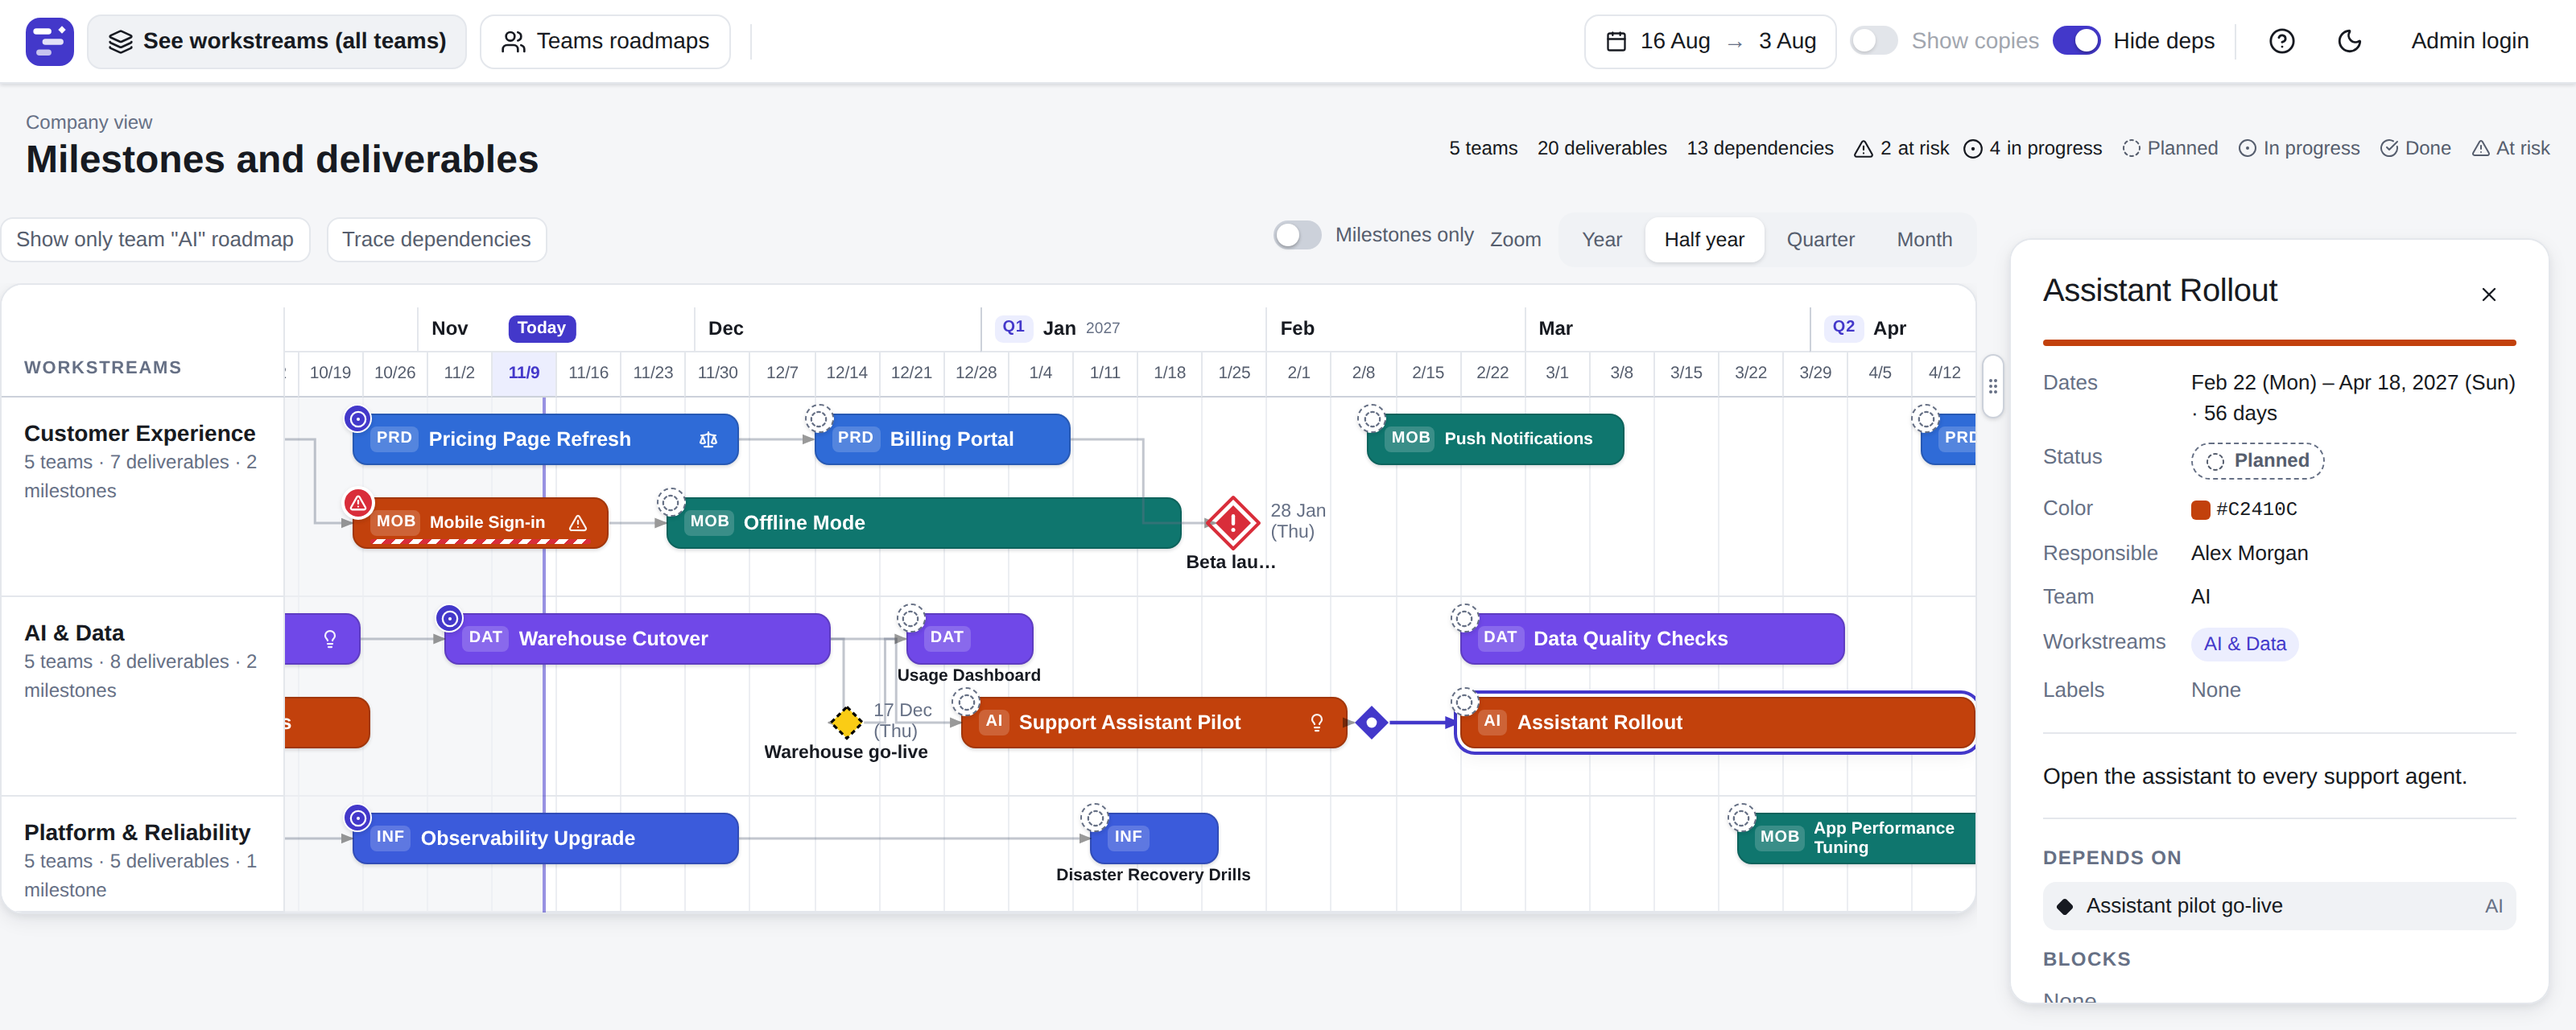
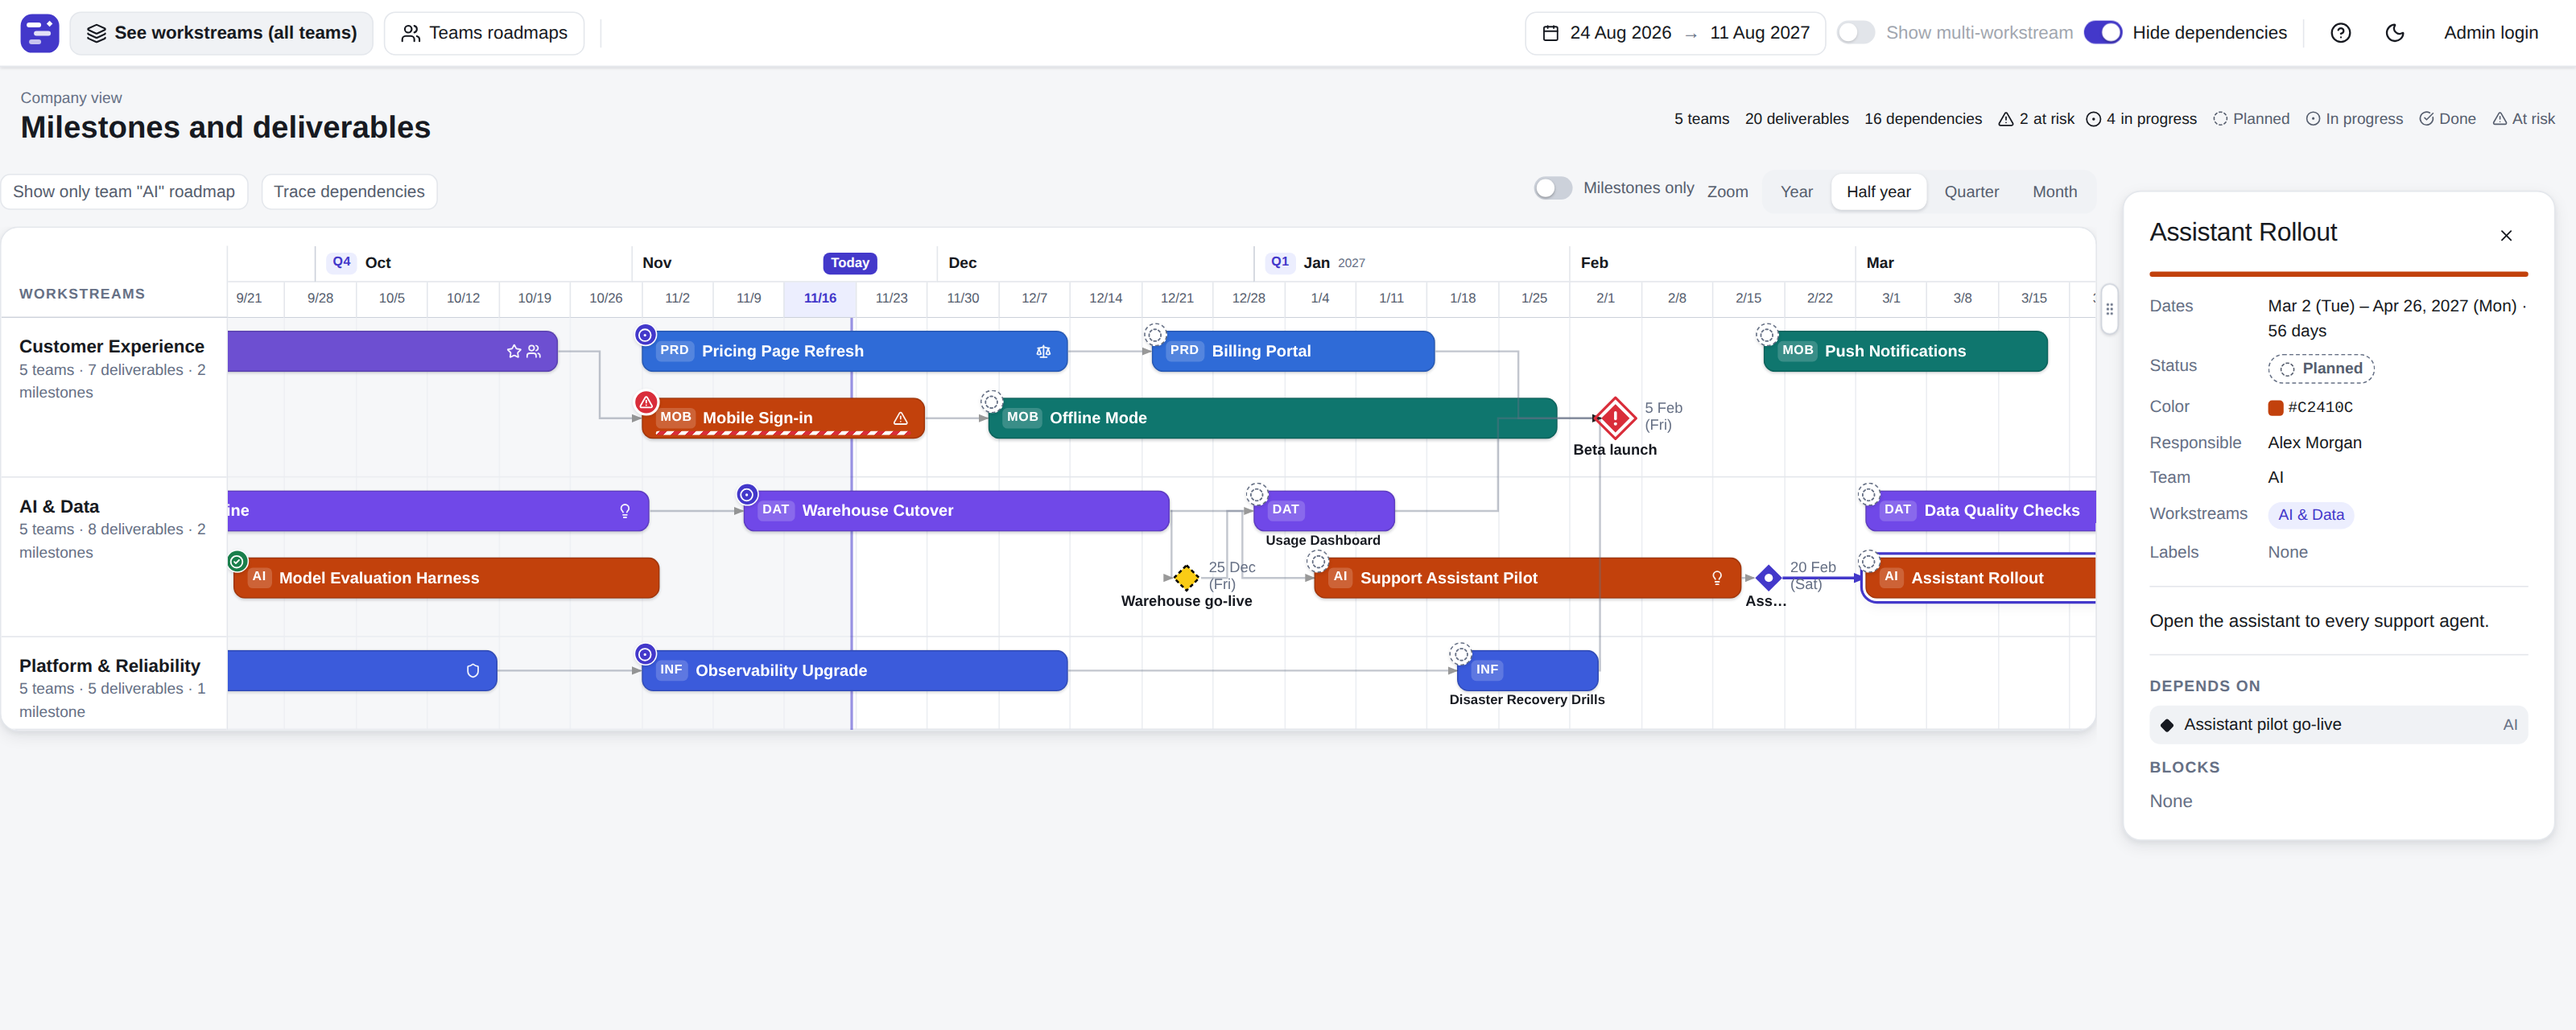
Overlens 1.2.4

diff --git a/internal/demo/demo_test.go b/internal/demo/demo_test.go
@@ -485,8 +485,8 @@ func Test_REQ_DEMO_016_REQ_DEMO_017_development_company_file_loads(t *testing.T)
 			ws[strings.ToLower(w.Name)] = true
 		}
 	}
-	if res.Teams != 5 || len(ws) != 3 || res.Counts.Deliverables != 30 || res.Counts.Milestones != 6 || res.Counts.Dependencies != 17 {
-		t.Errorf("teams %d, workstream names %d, deliverables %d, milestones %d, dependencies %d (want 5, 3, 30, 6, 17)",
+	if res.Teams != 5 || len(ws) != 3 || res.Counts.Deliverables != 30 || res.Counts.Milestones != 6 || res.Counts.Dependencies != 20 {
+		t.Errorf("teams %d, workstream names %d, deliverables %d, milestones %d, dependencies %d (want 5, 3, 30, 6, 20)",
 			res.Teams, len(ws), res.Counts.Deliverables, res.Counts.Milestones, res.Counts.Dependencies)
 	}
 }

diff --git a/README.md b/README.md
@@ -1,9 +1,8 @@
 # Overlens
 
-**One page that shows who is accountable for which deliverable, by when, and who is waiting on whom.**
+Overlens is for teams and leaders who share large, complex goals that none of them can reach alone, where the work has to be sequenced and one team's progress depends on another's. It's free and open source (MIT).
 
-Overlens helps teams and leaders working together on complex projects stay transparent and accountable for their part of the work.
-Every team's deliverables, milestones and dependencies sit on one timeline, each with a date and one accountable owner. Overlens makes it clear what needs to be done in order to reach milestones.
+Every team's deliverables, milestones and dependencies sit on one timeline, each with a date and one accountable owner, so everyone can see what has to happen, by when, and in what order, to reach each milestone, and where things stand right now.
 
 What Overlens is not:
 - Not an aggregation layer on top of Jira or other tracking systems.
@@ -12,78 +11,49 @@ What Overlens is not:
 
 ## See it in three steps
 
-**1. Start with the milestones.** The dates your company or department commits to, and nothing else.
+**1. Start with the milestones.** The dates and goals your company or department commits to, and nothing else.
 
 ![Milestones only: the dates that matter, one row per workstream](docs/images/milestones-only.png)
 
-**2. Open one milestone.** Click a milestone to see only what leads to it: the deliverables it waits on, who is
-accountable for each, and which links are tight or at risk. Everything unrelated is hidden. If a team that should be
-part of it is missing from that picture, you see it now, not at the deadline.
+**2. Open one milestone.** Click a milestone to see only what leads to it: the deliverables it waits on, which team owns it, who is
+accountable for each, and which links are tight or at risk. If a team that should be part of it is missing from that picture, or a deliverable has no accountable person, you see it now, not at the deadline.
 
 ![Beta launch: its prerequisites, their owners and status](docs/images/milestones-view.png)
 
-**3. Then the whole picture.** You can see every team's deliverables, milestones and dependencies on one timeline. Select any item
-to see its dates, owner and what it depends on.
+**3. Then the whole picture.** All teams together: the shared bottlenecks, deliverables that several milestones depend on, and how much each team is carrying at the same time. When a bottleneck slips, you know every goal that slips with it.
 
 ![The company view: every team's deliverables, milestones and dependencies on one timeline](docs/images/company-view.png)
 
-## Who it's for
+## Why Overlens
 
-Leaders and teams who need to see progress toward company goals, and want everyone to see who is accountable for each step.
-
-Ticketing systems are built for tasks, not high-level objectives. When progress is reported and aggregated through hundreds of tasks and epics,
-ownership dissolves into detail and nobody owns the whole outcome. When something slips, teams blame each other for not
-being proactive or not sharing information about dependencies. Only 7% of executives say they can quickly see how their teams' work supports
+Ticketing systems are built for tasks. When progress is reported and aggregated through hundreds of tasks and epics,
+ownership dissolves into detail and it's difficult to understand who owns the whole outcome. Only 7% of executives say they can quickly see how their teams' work supports
 company goals ([Atlassian, 2025](https://www.atlassian.com/blog/focus/how-goals-support-strategic-priorities)).
 
-Portfolio suites such as [Jira Align](https://www.atlassian.com/software/jira/align) may address this, but they are large
-products tied to one vendor's ecosystem. Overlens stays at the level that matters to leadership: one deliverable, one
-accountable person, one date, visible to the whole organization without an account. Every team is free to organize their
-work as they see fit, but their commitments to each other and high-level goals come together in Overlens.
+Portfolio suites such as [Jira Align](https://www.atlassian.com/software/jira/align) are built for this, but they are large
+products tied to one vendor's ecosystem. Overlens stays above the teams' own tools. Each team organizes its work as it sees fit,
+and what comes together in Overlens is only what they commit to each other and to the company goals.
 
-Overlens is a tool, not a planning process. People still decide what the goals are, assess what is technically
-possible, and agree on who delivers what by when. Overlens doesn't do that work for them: it makes the result of
-those conversations visible, keeps it current, and shows the moment it stops adding up.
+Overlens is a tool, not a planning process. People still set the goals and agree on who delivers what by when;
+Overlens makes the result visible, keeps it current, and shows the moment it stops adding up.
 
-## What you get
+## Ask your AI assistant
 
-- **The whole portfolio on one page**, with status and risk at a glance.
-- **Dependencies you can see**: who waits on whom, and everything a deliverable depends on.
-
-  ![Assistant Rollout traced back through everything it depends on](docs/images/trace-dependencies.png)
-
-- **Gaps you can spot early**: when a big milestone has nothing leading to it from a team that will clearly be needed,
-  or a deliverable has no accountable person, it is visible in Overlens while there is still time to act.
-- **Status updates and meetings focused on the outcomes**: what leads to each one, who owns each part, what is late or at risk.
-- **Ask your AI assistant**: connect Claude or any MCP assistant and ask in plain language, for example "What is late or
-  at risk?" or "What is Beta launch waiting on?". The MCP is read only.
-- **Free and open source** (MIT).
-
-## Where it runs
-
-Overlens runs on your company's own infrastructure, so you don't depend on a SaaS vendor. It is one program and needs
-nothing but an operating system: no database to set up, no internet. It runs on any Linux or Windows server (VM, EC2,
-physical) and on a Mac, and if your company already runs containers, Docker works too.
-
-You can also try it on your own computer first, in five minutes. Read the [Installation](#installation) chapter below.
+Connect Claude or any MCP assistant and ask in plain language, for example "What is late or at risk?" or "What is
+Beta launch waiting on?". The assistant can only read; it never changes the roadmap.
 
 ## Installation
 
-**On your laptop.** Download the build for Mac, Windows or Linux from
-[Releases](https://github.com/andrejad/overlens/releases), unpack it and start `overlens` (on Windows, double-click
-`overlens.exe`). Nothing to install first: no database, no Docker, no accounts. Its window displays the address to open
-in your browser. It starts with a sample company, so you can look around straight away; to edit, log in as `admin` with
-the password `admin` and change the password.
+Overlens is one program: no database to set up, no internet needed.
 
-> **macOS:** the macOS downloads have not been tested on a Mac yet. They are built the same way as the others and
-> should work; if you try one, please tell us how it went in an [issue](https://github.com/andrejad/overlens/issues).
+**Try it on your laptop.** Download the build for Mac, Windows or Linux from
+[Releases](https://github.com/andrejad/overlens/releases), unpack it and start `overlens` (on Windows, `overlens.exe`).
+Its window shows the address to open. It starts with a sample company; to edit, log in as `admin` / `admin` and change
+the password. (The Mac builds are not yet tested on a Mac; please report how it went in an
+[issue](https://github.com/andrejad/overlens/issues).)
 
-**On a company server, inside your VPN.** When you want your teams to see it, put the same program on a Linux or Windows
-server in your network. Again there is nothing else to install: the database and the web interface are built into the
-one program.
-
-If your company already runs containers, it fits there too: Docker (with Docker Compose or Portainer), CapRover or
-Kubernetes. Every route, step by step, is in [docs/DEPLOY.md](docs/DEPLOY.md).
+**Run it for your teams.** Put the same program on a Linux or Windows server inside your network, or run it in
+Docker, CapRover or Kubernetes. Every route, step by step, is in [docs/DEPLOY.md](docs/DEPLOY.md).
 
 ## Run from source (for developers)
 

diff --git a/CHANGELOG.md b/CHANGELOG.md
@@ -5,6 +5,12 @@ All notable changes to Overlens are documented here. The format follows
 
 ## [Unreleased]
 
+## [1.2.4] — 2026-11-22
+
+### Changed
+- The README is shorter and says more directly who Overlens is for: teams and leaders whose work toward a shared goal depends on each other.
+- In the sample company, the "Beta launch" milestone now depends on work from four teams across all three workstreams, so tracing it shows a realistic cross-team chain. Existing installations are not changed.
+
 ## [1.2.3] — 2026-11-17
 
 ### Changed
